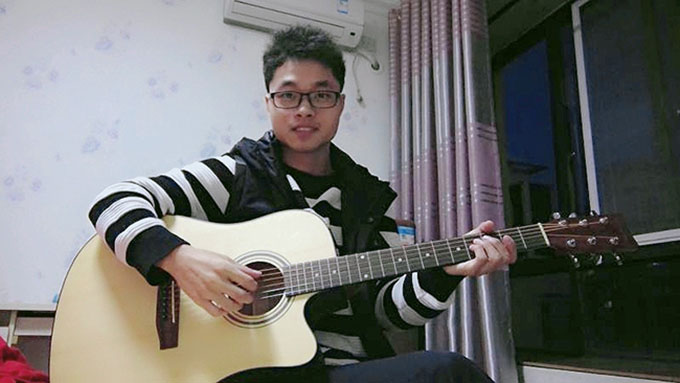
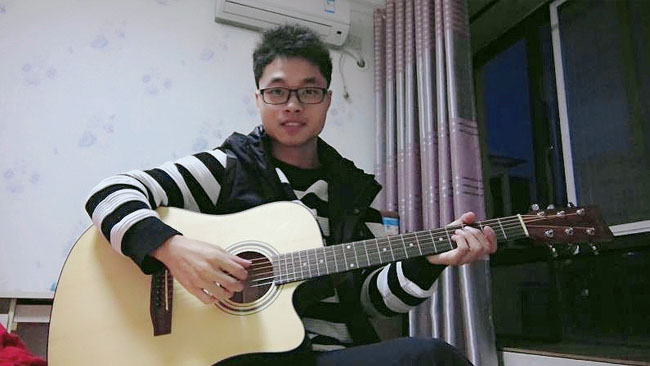
reset jpg

diff --git a/Scripts/css.css b/Scripts/css.css
@@ -289,9 +289,9 @@ dd.digg_pic samp { cursor: pointer; }
 
 /*#ibanner { position:relative; width:680px; height:300px; overflow:hidden; margin:20px 0 20px 100px; }*/
 /*#ibanner { position:relative; width:680px; height:300px; overflow:hidden; margin-top:20px ; 0 margin-left: auto; margin-left: auto; }*/
-#ibanner { position:relative; width:680px; height:383px; overflow:hidden; margin-top:20px ; margin-left: auto; margin-right: auto; }
+#ibanner { position:relative; width:650px; height:366px; overflow:hidden; margin-top:20px ; margin-left: auto; margin-right: auto; }
 #ibanner_pic {}
-#ibanner_pic a { position:absolute; top:0; display:block; width:680px; height:383px; overflow:hidden; }
+#ibanner_pic a { position:absolute; top:0; display:block; width:650px; height:366px; overflow:hidden; }
 
 fieldset, img { border:none; }
 legend { display:none; }

diff --git a/Scripts/move_picture.js b/Scripts/move_picture.js
@@ -158,7 +158,7 @@ function iBanner()
 			picList[z].style.zIndex='3';
 			if (currentNum!=z)
 			{
-				picList[z].style.left='680px';
+				picList[z].style.left='650px';
 				moveElement('picLi_'+z,0,0,10);
 			}
 		}
@@ -193,7 +193,7 @@ function autoBanner()
 		btnList[0].className='current';
 		picList[currentNum].style.zIndex='2';
 		picList[0].style.zIndex='3';
-		picList[0].style.left='680px';
+		picList[0].style.left='650px';
 		moveElement('picLi_0',0,0,10);
 	}
 	else
@@ -204,7 +204,7 @@ function autoBanner()
 		btnList[nextNum].className='current';
 		picList[currentNum].style.zIndex='2';
 		picList[nextNum].style.zIndex='3';
-		picList[nextNum].style.left='680px';
+		picList[nextNum].style.left='650px';
 		moveElement('picLi_'+nextNum,0,0,10);
 	}
 }
